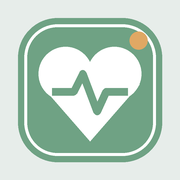
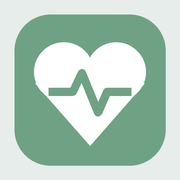
Icônes v3 : forme d'origine, couleur pleine, sans point ambre (SW v31)

diff --git a/service-worker.js b/service-worker.js
@@ -1,4 +1,4 @@
-const CACHE = 'health-tracker-v30';
+const CACHE = 'health-tracker-v31';
 const ASSETS = [
   './',
   './index.html',
